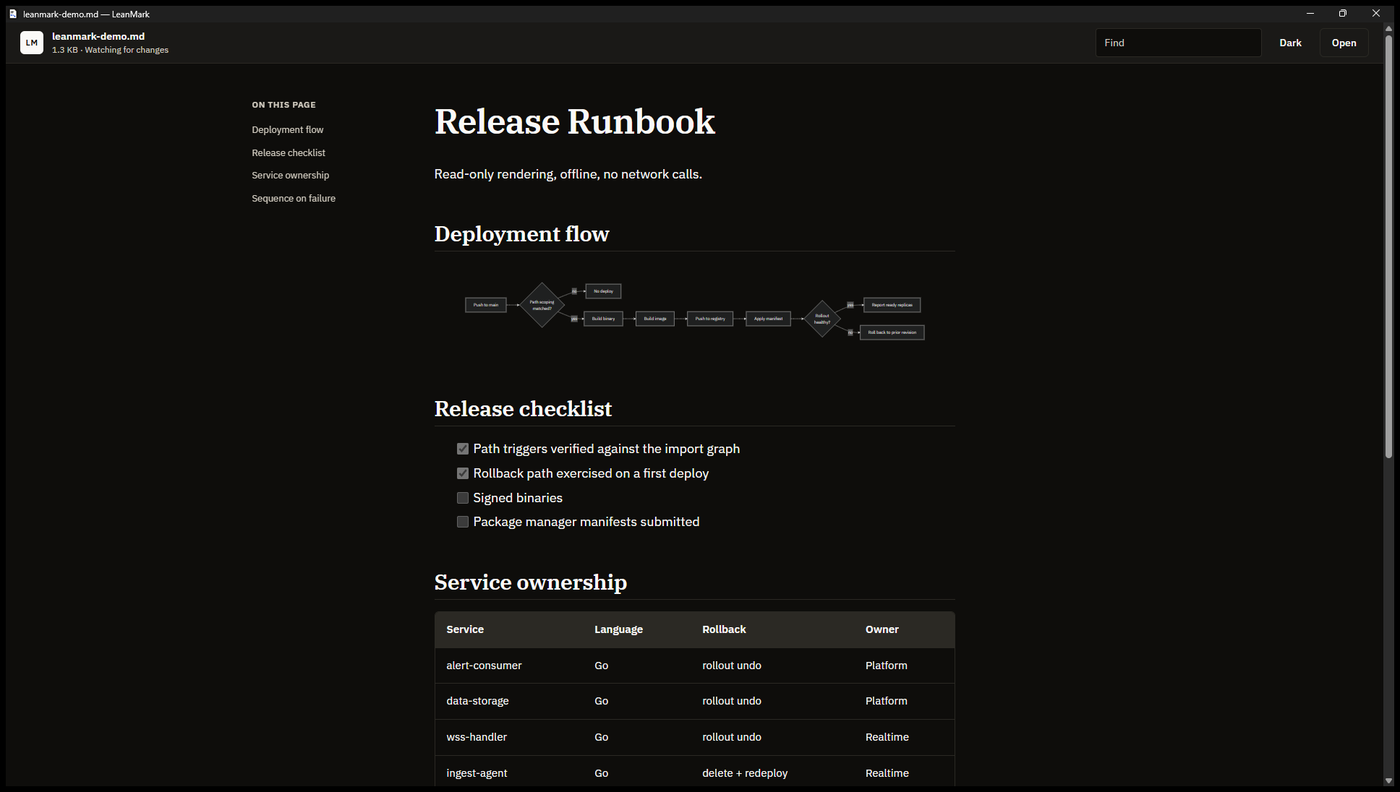
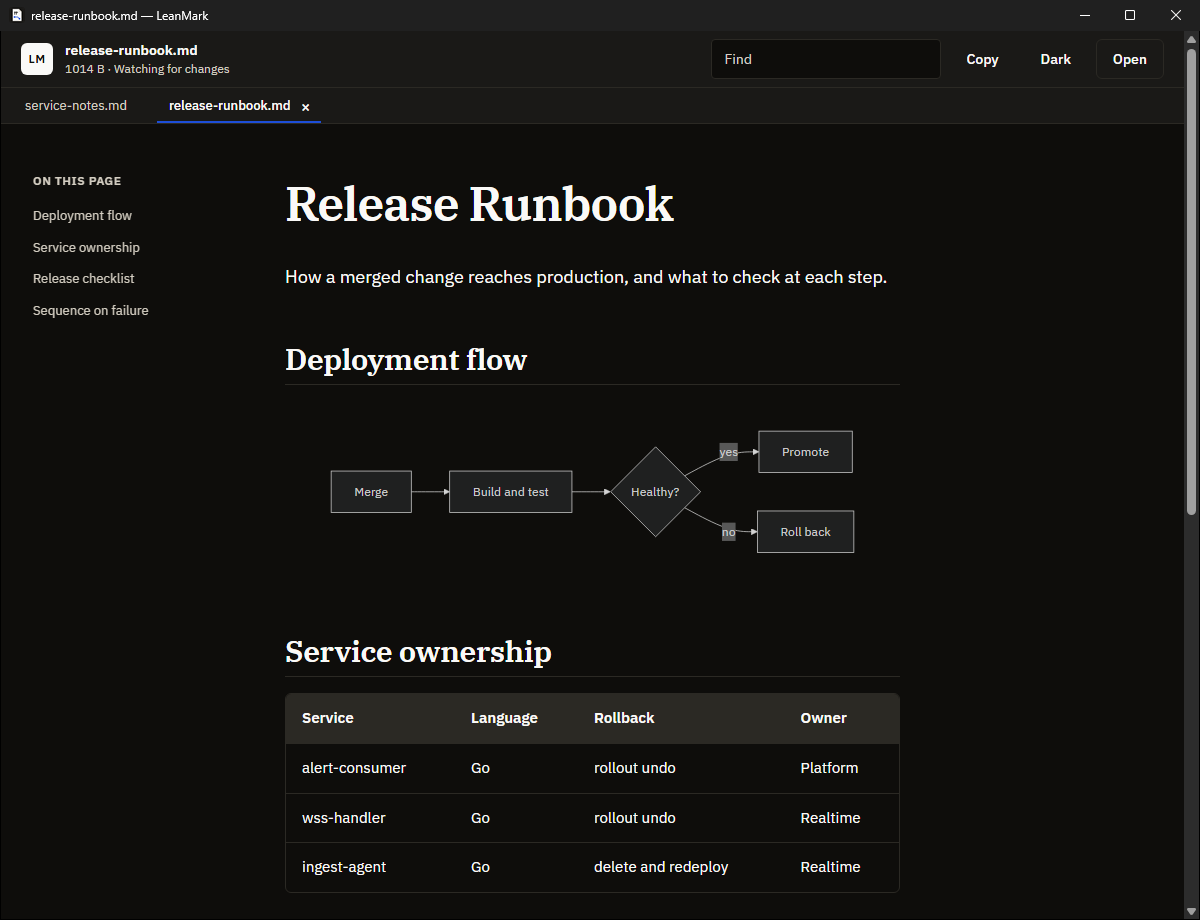
Replace the README screenshot with a 0.3.0 capture
The old screenshot showed the 0.2 interface, and its sample document's
tagline read "Read-only rendering, offline, no network calls", a claim
the README no longer makes. The new capture is the installed 0.3.0
build in its Dark appearance with two documents open as tabs, showing
the outline, a Mermaid flowchart, and a GFM table.

Both sample documents are committed under docs/images/screenshot-source
so the capture can be repeated. The caption and alt text now describe
what the image shows.

diff --git a/docs/images/screenshot-source/release-runbook.md b/docs/images/screenshot-source/release-runbook.md
@@ -1,0 +1,41 @@
+# Release Runbook
+
+How a merged change reaches production, and what to check at each step.
+
+## Deployment flow
+
+```mermaid
+flowchart LR
+    A[Merge] --> B[Build and test]
+    B --> C{Healthy?}
+    C -->|yes| D[Promote]
+    C -->|no| E[Roll back]
+```
+
+## Service ownership
+
+| Service | Language | Rollback | Owner |
+| --- | --- | --- | --- |
+| alert-consumer | Go | rollout undo | Platform |
+| wss-handler | Go | rollout undo | Realtime |
+| ingest-agent | Go | delete and redeploy | Realtime |
+
+## Release checklist
+
+- [x] Path triggers verified against the import graph
+- [x] Rollback path exercised on a first deploy
+- [ ] Release notes reviewed by the owning team
+- [ ] Dashboards checked one hour after promotion
+
+## Sequence on failure
+
+```mermaid
+sequenceDiagram
+    participant CI
+    participant Cluster
+    participant OnCall as On-call
+    CI->>Cluster: Apply manifest
+    Cluster-->>CI: Health check failed
+    CI->>Cluster: Roll back to previous version
+    CI->>OnCall: Page with the failing check
+```

diff --git a/README.md b/README.md
@@ -3,9 +3,10 @@
 **Read Markdown and Mermaid diagrams without opening an IDE. Everything renders
 offline, with no Electron and no telemetry.**
 
-![LeanMark rendering Mermaid diagrams offline](docs/images/leanmark-mermaid.png)
+![LeanMark showing a Mermaid flowchart and a table, with two documents open as tabs](docs/images/leanmark-mermaid.png)
 
-*Mermaid flowcharts, GFM tables, and task lists, rendered offline.*
+*A Mermaid flowchart and a GFM table rendered offline, with a second document
+open in a tab.*
 
 Most Markdown tools are editors. VS Code, Typora, Obsidian, and MarkText are
 built for writing, and most of them run on Electron. LeanMark is for reading.

diff --git a/docs/images/screenshot-source/service-notes.md b/docs/images/screenshot-source/service-notes.md
@@ -1,0 +1,13 @@
+# Service Notes
+
+Operational notes for the services listed in the release runbook.
+
+## alert-consumer
+
+Consumes detection events and fans alerts out to subscribers. A restart is
+safe at any time; messages are acknowledged only after delivery.
+
+## ingest-agent
+
+Runs next to each sensor and forwards readings. Redeploy it rather than
+rolling back, because its configuration is regenerated on start.
